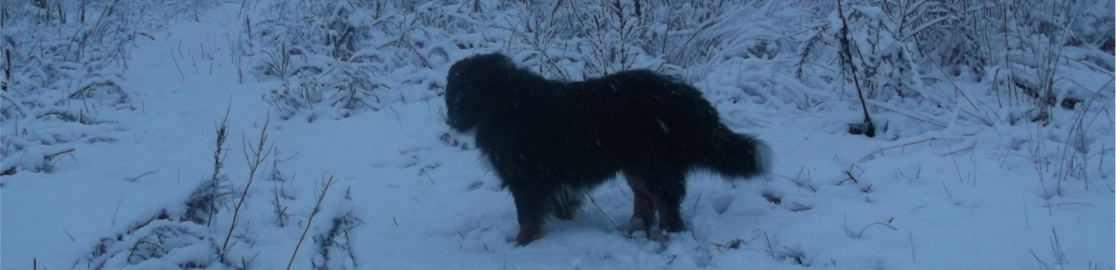
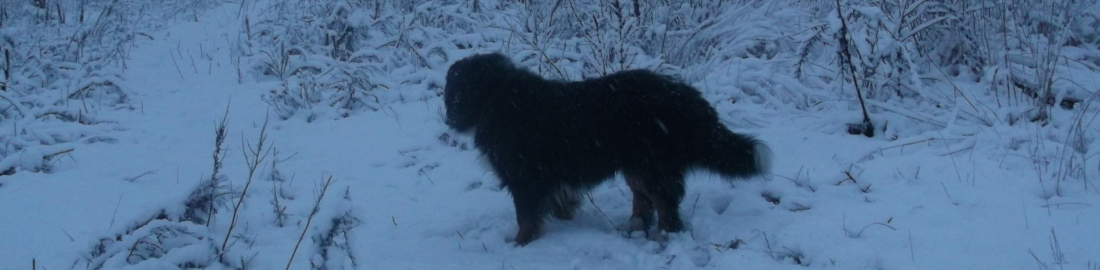
fixing header

diff --git a/index.html b/index.html
@@ -7,10 +7,10 @@
 		<link rel="stylesheet" type="text/css" href="style.css" />
 	</head>
 	<body>
-		<header class="page-header">
-			<h1>B e r n e s e &nbsp; M o u n t a i n &nbsp; D o g</h1>
-			<img src="gallery/header.JPG" alt="header picture" />
+		<header>
+			<h1>Bernese Mountain Dog</h1>
 		</header>
+		
 		<nav>
 			<ul>
 				<li><a class="selected" href="index.html">Home</a></li>
@@ -31,5 +31,6 @@
 				<p>Thank you for visiting this little website about Bernese Mountain Dogs. It's not 100% finished and I'll be constantly updating and improving it. Also thank you for all the suggestions. </p>
 			</article>
 		</section>
+		
 	</body>
 </html>

diff --git a/style.css b/style.css
@@ -1,35 +1,28 @@
-
 body
 {
 	width: 1100px;
-	margin: 0px auto;
+	margin: 0 auto;
 }
 
 /* main page header with background image */
-header.page-header
+header
 {
 	width: 1100px;
 	height: 270px;
-	position: relative;
-}
-
-header.page-header img
-{
-	width: 100%;
-	height: 100%;
 	border-radius: 4px;
+	background-image: url("gallery/header.JPG");
+	text-align: center;
 }
 
-header.page-header h1
+
+header h1
 {
 	color: white;
 	font-size: 40px;
 	font-weight: normal;
 	font-family: "Comic Sans MS", cursive;
-
-	position: absolute;
-	left: 245px;
-	margin-top: 0px;
+	letter-spacing: 10px;
+	margin: 0;
 }
 
 /* page navigation menu */

diff --git a/about.html b/about.html
@@ -7,9 +7,8 @@
 		<link rel="stylesheet" type="text/css" href="style.css" />
 	</head>
 	<body>
-		<header class="page-header">
-			<h1>B e r n e s e &nbsp; M o u n t a i n &nbsp; D o g</h1>
-			<img src="gallery/header.JPG" alt="header picture" />
+		<header>
+			<h1>Bernese Mountain Dog</h1>
 		</header>
 		<nav>
 			<ul>

diff --git a/info.html b/info.html
@@ -7,9 +7,8 @@
 		<link rel="stylesheet" type="text/css" href="style.css" />
 	</head>
 	<body>
-		<header class="page-header">
-			<h1>B e r n e s e &nbsp; M o u n t a i n &nbsp; D o g</h1>
-			<img src="gallery/header.JPG" alt="header picture" />
+		<header>
+			<h1>Bernese Mountain Dog</h1>
 		</header>
 		<nav>
 			<ul>

diff --git a/gallery.html b/gallery.html
@@ -8,9 +8,8 @@
 		<script src="script.js" type="text/javascript"></script>
 	</head>
 	<body>
-		<header class="page-header">
-			<h1>B e r n e s e &nbsp; M o u n t a i n &nbsp; D o g</h1>
-			<img src="gallery/header.JPG" alt="header picture" />
+		<header>
+			<h1>Bernese Mountain Dog</h1>
 		</header>
 		<nav>
 			<ul>
